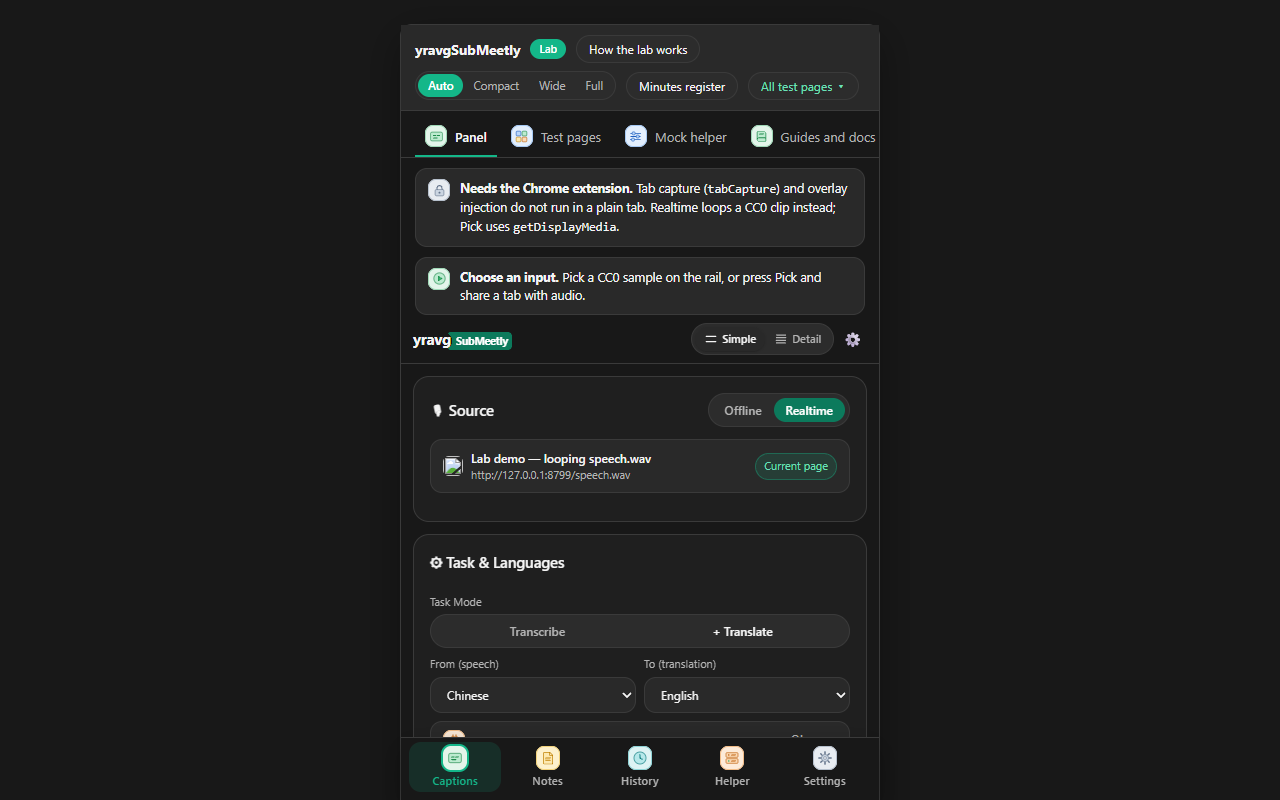
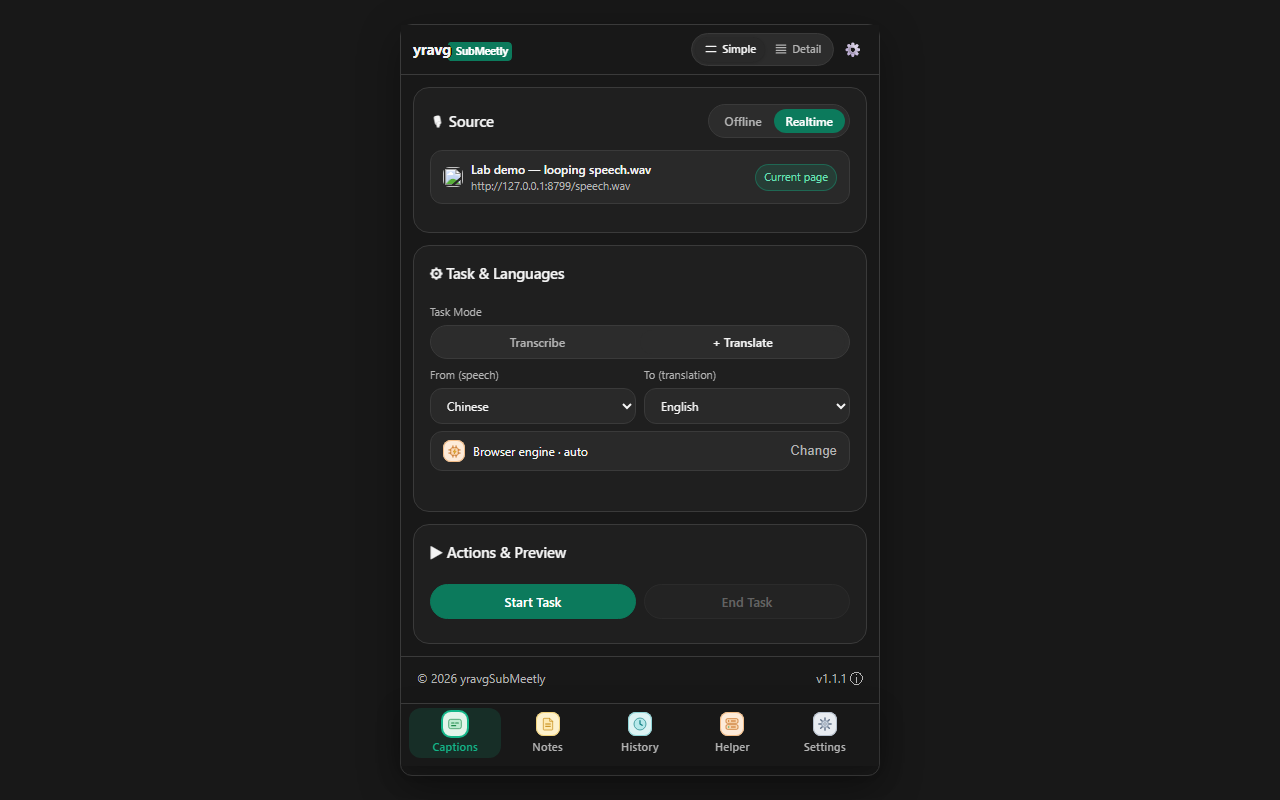
Store shots show the panel without the lab shell; CHANGELOG, BRAND-001, handoff for the polish merge
PRD: BRAND-001, UI-004

diff --git a/docs/handoff/submeetly-next.md b/docs/handoff/submeetly-next.md
@@ -118,6 +118,7 @@ then qa re-run on main. S5 (Rust default, delete Python) stays an owner gate.
   and left nothing (no files, no uninstall key, Oyenza folders unchanged, compared file by file). The retry
   install was refused by the session's permission classifier (persistence), so the installed run, uninstall,
   /EXTID page and autostart are still unverified: owner runs `yravgSubMeetly-Setup-<v>.exe` once.
+- polish merged (2026-11-08): yravg/sm-polish + lead fix in the merge (capture-store-screens hides the D03 lab bar, tabs, state notes and rails: the worker's shots showed the lab shell, not the panel). Lead verified: build ok; npm test 407 tests, 387 pass, 0 fail, 20 skipped (first clean Windows run); `npm run qa` 19/19 (run-20261108-210514); looked at store 01 and 02. Open: 03-settings-helper.png stays the old wordmark: Page.captureScreenshot times out on the Settings shot every time (3 tries; --disable-gpu and viewport-only did not help), cause unknown; export-browser now clicks #btn-export-os-default through the DOM because a mouse click at the top edge never reached it on Windows (worker note; possible real hit-target bug, not checked). C: drive was 0 GB free (Docker 26.7 GB is the biggest user; ours: worktrees 3.5 GB, .cargo 3.3 GB, ms-playwright 2.5 GB).
 - island3 merged (2026-11-08): yravg/sm-island3 724157b. Lead verified: `cargo test -p poni-core` 346 + 1 + 5 pass, `cargo test -p poni` 227 pass 2 ignored (fixed from broken baseline), `npm run test:engine-rs` golden replay 0 mismatches (102 goldens), npm test 406: 382 pass, 4 Windows-only fail, 20 skipped; looked at the caption pill, Engine page (CPU 0.0 %, 0.20x real time) and the Update sheet (Install now / Install on next start / Not now / what's new link; REL-002 sheet now seen). Removed dead code that opened other Electron apps' sealed sign-ins (Oyenza AI tab, dropped). Open: capture control only in the extension; pairing server owner value is env-only (PONI_DROP_SERVER); mac build not checked on Windows.
 - threads merged (2026-11-08): yravg/sm-threads 2a8c215. Lead verified: build ok; npm test 405 tests, 381 pass, 4 Windows-only fail, 20 skipped (a first full run showed 10 more failures in draft-ui/dock tests under memory pressure from three workers; draft-ui alone 10/10 and the full re-run clean); `npm run qa` 19/19 (TC016-019 new); looked at TC016 Inbox, TC018 Highlights, TC019 Draft options from the meeting transcript. Open: Projects right-hand notes pane, librarian hook after End & draft, Inbox/Projects not reachable from an empty workspace, Close without MoM is a device-local flag, Files/Links found by pattern; 390 px horizontal overflow on Minutes (pre-existing).
 - Workers (Sonnet): threads ctx_1f104e6cae6a (T01 Inbox, T02 Librarian, T04 Highlights in Minutes, T03 on

diff --git a/CHANGELOG.md b/CHANGELOG.md
@@ -1,6 +1,7 @@
 # Riwayat rilis
 
 ## Unreleased — feat/notes-v2
+- **Side panel:** tab Add-ins ikut bahasa UI (en/id/zh); titik warna terjemahan terbaca di mode gelap (5,88-8,58:1, teks 5,39-9,17:1); screenshot toko 01-02 memakai wordmark yravgSubMeetly tanpa kerangka lab; empat tes yang gagal hanya di Windows kini mengikuti bawaan OS (CRLF/BOM, bit eksekusi dari git, USERPROFILE), `npm test` 0 gagal di Windows
 - **Island:** teks langsung dari mesin (`GET /live` di helper Python dan Rust) tampil di pil dan halaman Live; halaman Engine menampilkan CPU dan kecepatan (RTF) yang benar-benar diukur; tombol Hold/Unfollow menyebut apa yang dilakukannya (rekaman dikendalikan ekstensi); tanpa server pairing bawaan (`PONI_DROP_SERVER`); teks Oyenza di kode Mac diganti; island tidak lagi memakai folder, kelas jendela, atau sesi ETW milik Oyenza Studio; Setup tidak lagi crash saat mulai
 - **Minutes, papan Threadbear (T01, T02, T04):** tampilan **Inbox** (tindak lanjut dan pertanyaan terbuka lintas rapat: Overdue / This week / No date / Doing / Done, Close, Snooze, Undo, Archive all), **Projects** (pustakawan berbasis aturan: saran seri, tipe proyek dan judul dengan alasan, Accept / Change / Dismiss, Pause) dan **Highlights** (Needs you, butir terakhir, Files / Links / Changes, Issue MoM, Close without MoM); Draft options kini membaca transkrip rapat itu sendiri lebih dulu dan menyebut sumbernya
 - **Installer Windows dan pembaruan otomatis (`island/installer`, `island/docs/updates.md`):** Setup per-pengguna (Inno Setup, tanpa admin) memasang island, engine Rust, dan host Native Messaging; island membaca `latest.json` bertanda tangan dari rilis GitHub dan menampilkan pop-up "Update available"; kunci tanda tangan milik sendiri (kunci Oyenza dihapus); alur rilis `.github/workflows/release.yml` belum dijalankan

diff --git a/docs/roadmap/submeetly-next.md b/docs/roadmap/submeetly-next.md
@@ -56,7 +56,7 @@ Status words: `missing`, `partial`, `done`. The handoff holds the evidence for e
 
 | ID | P | Row | Acceptance (observable) | Status |
 |---|---|---|---|---|
-| BRAND-001 | P0 | Display name yravgSubMeetly everywhere users look | No user-visible "yraverageSubMin" in extension, helper, macOS app, guides, store listing | done (merged 35f47ce; store PNGs open) |
+| BRAND-001 | P0 | Display name yravgSubMeetly everywhere users look | No user-visible "yraverageSubMin" in extension, helper, macOS app, guides, store listing | done (merged 35f47ce; store PNGs 01-02 recaptured 2026-11-08; 03-settings still old wordmark: capture times out on the Settings shot) |
 | ENG-001 | P0 | Rust engine serves every non-ML route like Python | 79 goldens, 0 mismatches, `npm run test:engine-rs` | done (merged 6da5720) |
 | ENG-002 | P0 | Rust engine speech-to-text (candle Whisper) | WER <= 0.10 vs Python faster-whisper per clip on 5 CC0 clips; segment starts within 0.5 s; RTF reported | done (merge a595096: WER <= 0.021, starts within 0.06 s on 5 clips; RTF rust 0.19-0.28, python 0.05-0.16 on CPU) |
 | ENG-003 | P1 | Rust engine translation (candle Qwen2.5) | Same prompts as Python; non-empty, target script, no prompt leakage on fixed set | partial (route and prompts ported in a595096; property test never ran, model download too slow) |
